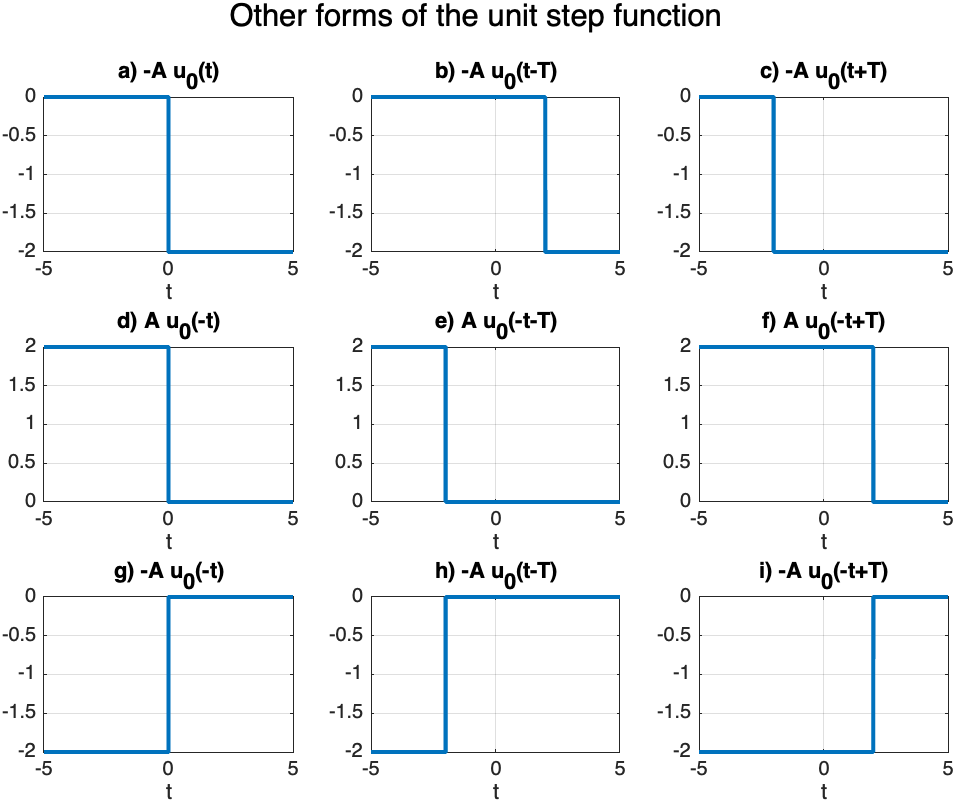
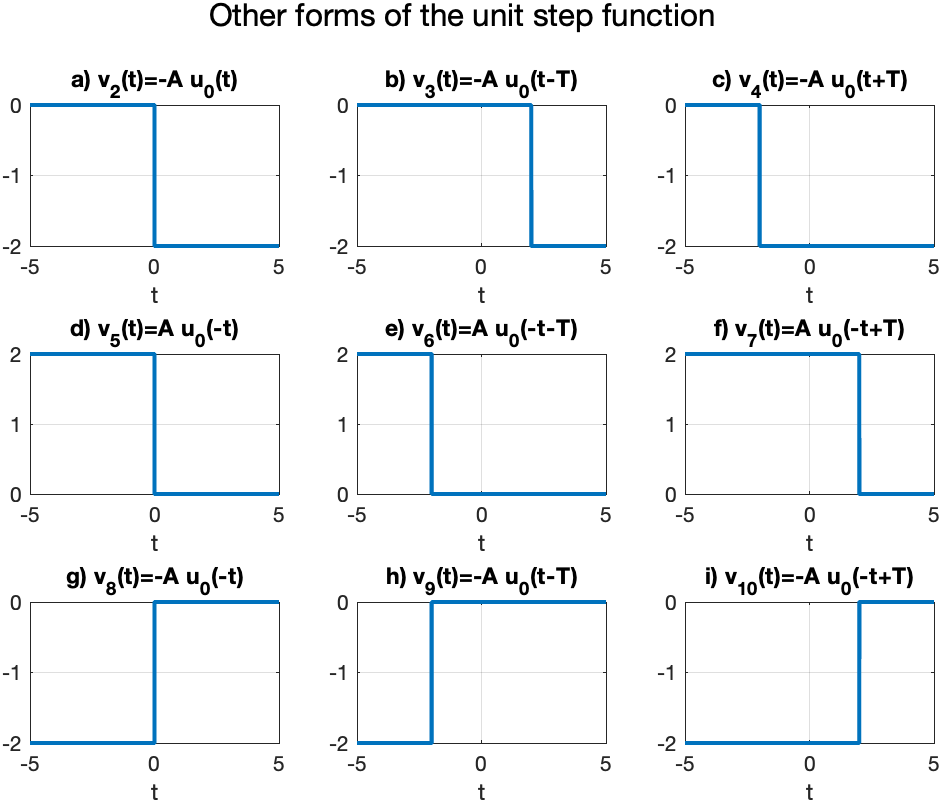
After week2 lectures

diff --git a/signals_and_systems/systems/index.md b/signals_and_systems/systems/index.md
@@ -45,9 +45,7 @@ Follow along at [cpjobling.github.io/eg-150-textbook/signals_and_systems/systems
 (system_representation)=
 ## System Representation
 
-A *system* is a mathematical model of a physical process that relates
-
- the *input* (or *excitation*) signal to the *output* (or *response*) signal.
+A *system* is a mathematical model of a physical process that relates the *input* (or *excitation*) signal to the *output* (or *response*) signal.
 
 +++ {"slideshow": {"slide_type": "fragment"}}
 
@@ -80,7 +78,7 @@ System with single or multiple inputs and outputs
 
 +++ {"slideshow": {"slide_type": "fragment"}}
 
-If the input and output signals $x$ and $y$ are deterministic signals, then the system is called a deterministic system.
+If the input and output signals $x$ and $y$ are deterministic signals, then the system is called a *deterministic* system.
 
 +++ {"slideshow": {"slide_type": "fragment"}}
 
@@ -110,7 +108,7 @@ If the input and output signals  𝑥  and  𝑦  are discrete-time signals or s
 
 +++ {"slideshow": {"slide_type": "notes"}}
 
-Note that in a continuous-time system the input $x(t)$ and $y(t)$ are often expressed as a differential equation (see Example 4.1) and in a discrete-time system $x[n]$ and $y[n]$ are often expressed by a difference equation.
+Note that in a continuous-time system the input $x(t)$ and $y(t)$ are often expressed as a *differential equation* (see {ref}`worked_examples_4`) and in a discrete-time system $x[n]$ and $y[n]$ are often expressed by a *difference equation*.
 
 +++ {"slideshow": {"slide_type": "slide"}}
 
@@ -288,7 +286,7 @@ A system that does not satisfy the equation $\mathbf{T}\left\{x(t - \tau)\right\
 
 ### Testing for time-invariance
 
-To check for time invariance, we can compare the time-shifted output with the output produced by the time-shifted input (See examples 4.2 and 4.3).
+To check for time invariance, we can compare the time-shifted output with the output produced by the time-shifted input (See {ref}`ex4_2` and {ref}`ex4_3`).
 
 +++ {"slideshow": {"slide_type": "slide"}}
 
@@ -301,14 +299,14 @@ If a system is linear and also time-invariant it is called a *linear time-invari
 
 +++ {"slideshow": {"slide_type": "fragment"}}
 
-All ths systems analysied in in the rest of the module and in **EG-247 Digital Signal Processing** and **EG-243 Control Systems** next year will be LTI systems.
+All ths systems analysed in in the rest of the module and in **EG-247 Digital Signal Processing** and **EG-243 Control Systems** next year will be LTI systems.
 
 +++ {"slideshow": {"slide_type": "slide"}}
 
 (stable_systems)=
 ## Stable Systems
 
-A system is *bounded-input/bounded-output* (BIBO) *stable* is for any bounded input signal $x$ defined by
+A system is *bounded-input/bounded-output* (BIBO) *stable* if for any bounded input signal $x$ defined by
 
 $$|x|\le k_1$$
 
@@ -334,7 +332,7 @@ and input $x(t)$ is the unit step $u_0(t)$
 
 +++ {"slideshow": {"slide_type": "fragment"}}
 
-In this case $x(t) = 1$ but the output $y(t)$ increases without bound as $t$ increases.
+In this case $x(t) = 1$ (so is bounded) but the output $y(t)$ increases without bound as $t$ increases.
 
 +++ {"slideshow": {"slide_type": "slide"}}
 
@@ -345,7 +343,7 @@ A special class of systems of great importance consists of systems having *feedb
 
 +++ {"slideshow": {"slide_type": "fragment"}}
 
-In a *feedback system*, the output signal is fed back and added to the input as shown in {numref}`fig:feedback`.
+In a *feedback system*, a portion of the output signal is fed back and added to the input as shown in {numref}`fig:feedback`.
 
 +++ {"slideshow": {"slide_type": "fragment"}}
 
@@ -357,12 +355,17 @@ A feedback system with negative feedback: $e(t) = x(t) - y(t)$.
 
 +++ {"slideshow": {"slide_type": "notes"}}
 
-You will see some examples of systems with feedback when you study op-amp circuits in **EG-152 Practical Electronics**, the simple closed-loop systems to be studied in **EG-142 Instrumentation and Control**.  Feedback is also the basis of control theory to be studied next year in **EG-243 Control Systems**.
+You will see examples of systems with feedback when you study op-amp circuits in **EG-152 Practical Electronics**, the simple closed-loop systems to be studied in **EG-142 Instrumentation and Control**.  Feedback, and its impact on system stability, is also the basis of control theory to be studied next year in **EG-243 Control Systems**.
 
 +++ {"slideshow": {"slide_type": "slide"}}
 
 (worked_examples_4)=
 ## Examples 4
+
+```{admonition} MATLAB Example
+:class: tip
+We will solve this example by hand and then give the solution in the MATLAB lab.
+```
 
 (ex4.1)=
 
@@ -389,6 +392,11 @@ For the answer, refer to the lecture recording or see solved problem 1.32 in {ci
 (ex4_2)=
 ### Example 4.2: Capacitor circuit
 
+ ```{admonition} MATLAB Example
+:class: tip
+We will solve this example by hand and then give the solution in the MATLAB lab.
+```
+
 Consider the capacitor shown in {numref}`fig:cap_circuit`. Let the input $x(t) = i(t)$ and the output $y(t) = v_c(t)$.
 
 (a) Find the input-output relationship.
@@ -408,6 +416,12 @@ For the answer, refer to the lecture recording or see solved problem 1.33 in {ci
 +++ {"slideshow": {"slide_type": "subslide"}}
 
 (ex4_3)=
+
+```{admonition} MATLAB Example
+:class: tip
+We will solve this example by hand and then give the solution in the MATLAB lab.
+```
+
 ### Example 4.3: Signal modulator
 
 Consider the system shown in {numref}`fig:4_3`. Determine whether it is (a) memoryless, (b) causal, (c) linear, (d) time invariant, or (e) stable.
@@ -470,6 +484,12 @@ For the answer, refer to the lecture recording or see solved problem 1.43 in {ci
 +++ {"slideshow": {"slide_type": "subslide"}}
 
 (ex4_7)=
+
+```{admonition} MATLAB Example
+:class: tip
+We will solve this example by hand and then give the solution in the MATLAB lab.
+```
+
 ### Example 4.7
 
 Let $\mathbf{T}$ represent a continuous-time LTI system. Then show that
@@ -506,3 +526,9 @@ In particular we have looked at
 ## Next time
 
 * {ref}`lti_systems`
+
+## References
+
+```{bibliography}
+:filter: docname in docnames
+```

diff --git a/signals_and_systems/signals/pep_signals.md b/signals_and_systems/signals/pep_signals.md
@@ -56,7 +56,7 @@ We can use the periodicity to synthesize a periodic signal such as that shown in
 
 +++ {"slideshow": {"slide_type": "fragment"}}
 
-Let's first define the signal over one period. We will use MATLAB and the symbolic toolbox for this example:
+Let's first define the signal over one period. We will use MATLAB and the *symbolic math toolbox* for this example:
 
 +++ {"slideshow": {"slide_type": "fragment"}}
 
@@ -79,7 +79,7 @@ slideshow:
 syms t
 T = 1; % period of periodic signal
 x(t) = t*(heaviside(t)-heaviside(t-T));
-fplot(x(t)),ylim([0 2]),grid,title('A Single period of x(t)')
+fplot(x(t)),ylim([0 2]),grid,title('A Single period of x(t)'),xlabel('t')
 ```
 
 +++ {"slideshow": {"slide_type": "subslide"}}
@@ -158,6 +158,10 @@ ylim([0.00 2.00])
 
 The *fundamental period* $T_0$ of $x(t)$ is the smallest value of $T$ for which $x(t + mT) = x(t)$ holds.
 
++++ {"slideshow": {"slide_type": "notes"}}
+
+For the previous example this was $T_0=1$.
+
 +++ {"slideshow": {"slide_type": "subslide"}}
 
 (dc_signal)=
@@ -168,7 +172,7 @@ Note that the definition of the *fundamental period*  does not hold for a consta
 
 For a constant signal $x(t) = c$ the fundamental period is undefined since $x(t)$ is periodic for any choice of $T$ (and so there is no smallest postive value). See {numref}`fig:dc_signal`.
 
-+++ {"slideshow": {"slide_type": "fragment"}}
++++ {"slideshow": {"slide_type": "subslide"}}
 
 :::{figure-md} fig:dc_signal
 <img src="pictures/dc_signal.png" alt="A DC signal" width="75%">
@@ -241,7 +245,7 @@ $$P = \lim_{T\to \infty}\frac{1}{T}\int_{-T/2}^{T/2}i(t)^2\;dt\quad\mathrm{watts
 
 For an arbitrary continuous-time signal $x(t)$, the *normalised energy content* $E$ of $x(t)$ is defined as
 
-$$E = \int_{-\infty}^{\infty}\left|x(t)\right|^2\,dt$$
+$$E = \int_{-\infty}^{\infty}\left|x(t)\right|^2\,dt\quad\mathrm{J}$$
 
 +++ {"slideshow": {"slide_type": "subslide"}}
 
@@ -252,7 +256,7 @@ $$E = \int_{-\infty}^{\infty}\left|x(t)\right|^2\,dt$$
 
 The *normalised average power* $P$ of $x(t)$ is defined as
 
-$$P = \lim_{T\to \infty}\frac{1}{T}\int_{-T/2}^{T/2}\left|x(t)\right|^2\;dt\quad\mathrm{watts}$$
+$$P = \lim_{T\to \infty}\frac{1}{T}\int_{-T/2}^{T/2}\left|x(t)\right|^2\;dt\quad\mathrm{W}$$
 
 +++ {"slideshow": {"slide_type": "subslide"}}
 
@@ -283,7 +287,7 @@ Note that a periodic signal is a power signal if its energy content per period i
 
 There are other measures of signal size that are used:
 
-+++ {"slideshow": {"slide_type": "fragment"}}
++++ {"slideshow": {"slide_type": "subslide"}}
 
 ### Mean value
 
@@ -343,7 +347,7 @@ $$\mathrm{PAPR}_x = \frac{\left|x\right|_\mathrm{peak}^2}{P}$$
 
 **Observations**
 
-* CF a PAPR measure the dispersion of a signal about its average power.
+* CF and PAPR measure the dispersion of a signal about its average power.
 
 * To express CF or PAPR we often use decibels (dB). To obtain a measure of the quantity $y$ in dB use $20\log_{10}(y)$.
 
@@ -397,14 +401,15 @@ e). $x(t)=\sin^2t$;
 
 +++ {"slideshow": {"slide_type": "fragment"}}
 
-f). $x(t)=e^{j\left[\pi/2t-1\right]}$;
+f). $x(t)=e^{j\left[(\pi/2)t-1\right]}$;
 
 +++ {"slideshow": {"slide_type": "notes"}}
 
-For the answer, refer to the lecture recording or see solved problem 1.16 in {cite}`schaum`.
+For the answers, refer to the lecture recording or see solved problem 1.16 in {cite}`schaum`.
 
 +++ {"slideshow": {"slide_type": "subslide"}}
 
+(ex2.3)=
 ### Example 2.3
 
 Show that if $x(t + T) = x(t)$, then
@@ -421,9 +426,10 @@ For the answer, refer to the lecture recording or see solved problem 1.17 in {ci
 
 +++ {"slideshow": {"slide_type": "subslide"}}
 
+(ex2.4)=
 ### Example 2.4
 
-Show that if $x(t)$ is periodic with fundamental period $T_0$, the the normalized average power $P$ of $x(t)$ defined by
+Show that if $x(t)$ is periodic with fundamental period $T_0$, then the normalized average power $P$ of $x(t)$ defined by
 
 $$P = \lim_{T\to \infty}\frac{1}{T}\int_{-T/2}^{T/2}\left|x(t)\right|^2\;dt$$
 
@@ -467,6 +473,7 @@ Note $u_0(t)$ is the unit step (or Heaviside) function formally introduced in th
 
 +++ {"slideshow": {"slide_type": "subslide"}}
 
+(ex2.6)=
 ### Example 2.6
 
 Domestic mains power in the UK is delivered as a sinusoidal signal $x(t)=A\cos(\omega_0 t + \theta)$ with frequency of $50\mathrm{Hz}$ and RMS value of $240\mathrm{V}$. 
@@ -502,7 +509,7 @@ In particular we have looked at
 * {ref}`stable_systems`
 * {ref}`feedback_systems`
 
-+++
++++ {"slideshow": {"slide_type": "notes"}}
 
 ## References
 

diff --git a/signals_and_systems/elementary_signals/examples3.md b/signals_and_systems/elementary_signals/examples3.md
@@ -38,19 +38,22 @@ Follow along at [cpjobling.github.io/eg-150-textbook/signals_and_systems/element
 
 ![QR Code](pictures/qrcode_examples3.png)
 
-+++
++++ {"slideshow": {"slide_type": "slide"}}
 
 ## Plot the Unit Step
+
+$v_1(t) = A u_0(t)$
 
 ```{code-cell}
 ---
 slideshow:
-  slide_type: subslide
+  slide_type: fragment
 ---
 syms t
 u0(t) = heaviside(t); % allows us to type u0(t) in our formulae
 A = 2; T = 2; % we need numerical values to get a successful plot
-fplot(A*u0(t),'LineWidth',2),title('Unit step'),subtitle(texlabel('Au_0(t)')),grid,xlabel('t')
+v1(t) = A*u0(t)
+fplot(v1,'LineWidth',2),title('Unit step'),subtitle(texlabel('v_1(t) = Au_0(t)')),grid,xlabel('t')
 ```
 
 +++ {"slideshow": {"slide_type": "slide"}}
@@ -76,21 +79,23 @@ We've done the first row for you.
 
 +++ {"slideshow": {"slide_type": "subslide"}}
 
-a). $-Au_0(t)$
+a). $v_1(t) = -Au_0(t)$
 
 ```{code-cell}
 ---
 slideshow:
   slide_type: fragment
 ---
+clf % clear figures
 sgtitle('Other forms of the unit step function');
 subplot(331)
-fplot(-A*u0(t)),title(['a) ',texlabel('-A*u_0(t)')]),grid,xlabel('t')
+v2(t) = -A*u0(t)
+fplot(v1,'LineWidth',2),title(['a) ',texlabel('v_2(t) = -A*u_0(t)')]),grid,xlabel('t')
 ```
 
 +++ {"slideshow": {"slide_type": "subslide"}}
 
-b). $-A(t - T)$
+b). $v_3(t) = -A(t - T)$
 
 ```{code-cell}
 ---
@@ -98,12 +103,13 @@ slideshow:
   slide_type: fragment
 ---
 subplot(332)
-fplot(-A*u0(t - T)),title(['b) ',texlabel('-A*u_0(t-T)')]),grid,xlabel('t')
+v3(t) = -A*u0(t - T)
+fplot(v3(t),'LineWidth',2),title(['b) ',texlabel('v_3(t) = -A*u_0(t-T)')]),grid,xlabel('t')
 ```
 
 +++ {"slideshow": {"slide_type": "subslide"}}
 
-c). $-A(t + T)$
+c). $v_4(t) = -A(t + T)$
 
 ```{code-cell}
 ---
@@ -111,22 +117,23 @@ slideshow:
   slide_type: fragment
 ---
 subplot(333)
-fplot(-A*u0(t + T)),title(['c) ',texlabel('-A*u_0(t+T)')]),xlabel('t')
+v4(t) = -A*u0(t + T)
+fplot(v4(t),'LineWidth',2),title(['c) ',texlabel('v_4(t) = -A*u_0(t+T)')]),xlabel('t')
 ```
 
 +++ {"slideshow": {"slide_type": "subslide"}}
 
-d). $Au_0(-t)$
+d). $v_5(t) = Au_0(-t)$
 
-e). $Au_0(-t + T)$
+e). $v_6(t) = Au_0(-t + T)$
 
-f). $Au_0(-t - T)$
+f). $v_7(t) = Au_0(-t - T)$
 
-g). $-Au_0(-t)$
+g). $v_8(t) = -Au_0(-t)$
 
-h). $-Au_0(-t + T)$
+h). $v_9(t) = -Au_0(-t + T)$
 
-i). $-Au_0(-t - T)$
+i). $v_{10}(t) = -Au_0(-t - T)$
 
 +++
 
@@ -326,7 +333,7 @@ $$t^2\delta'(t-3)$$
 +++ {"slideshow": {"slide_type": "subslide"}}
 
 (ex3_4)=
-## Example 3.4
+## Example 3.4: Signal Synthesis
 
 ```{admonition} MATLAB Example
 :class: tip

diff --git a/laplace_transform/index.md b/laplace_transform/index.md
@@ -1,3 +1,5 @@
+(laplace)=
+
 # Laplace Transforms and their Applications
 
 ## About the Laplace Transformation
@@ -23,12 +25,3 @@ In this section of the course we will cover:
 * Using Laplace Transforms for Circuit Analysis
 * Transfer Functions
 * Impulse Response and Convolution
-
-## Colophon
-
-* The source code for this page is [laplace_transform/index.md](https://github.com/cpjobling/eg-247-textbook/blob/master/laplace_transform/index.md).
-
-* You can view the notes for this presentation as a webpage ([HTML](https://cpjobling.github.io/eg-247-textbook/laplace_transform/index.html)). 
-
-* This page is downloadable as a [PDF](https://cpjobling.github.io/eg-247-textbook/laplace_transform/laplace_transform.pdf) file. 
-

diff --git a/index.md b/index.md
@@ -29,5 +29,6 @@ EG-150 Signals and Systems introduces the mathematical description of signals in
 ## Table of Contents
 
 * {ref}`course_intro`
-* {ref}`sig_into`
+* {ref}`sig_intro`
 * {ref}`lti_systems`
+* {ref}`laplace`
